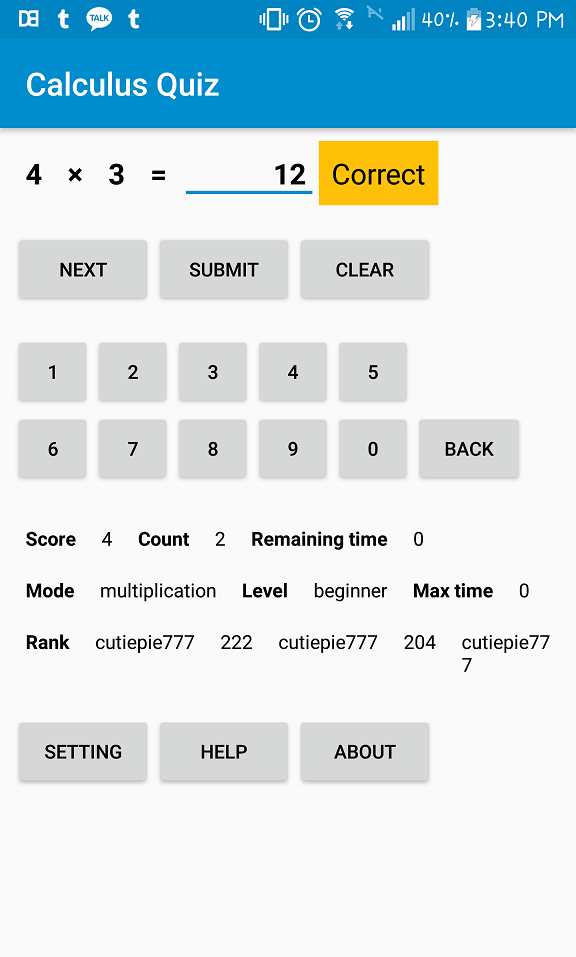
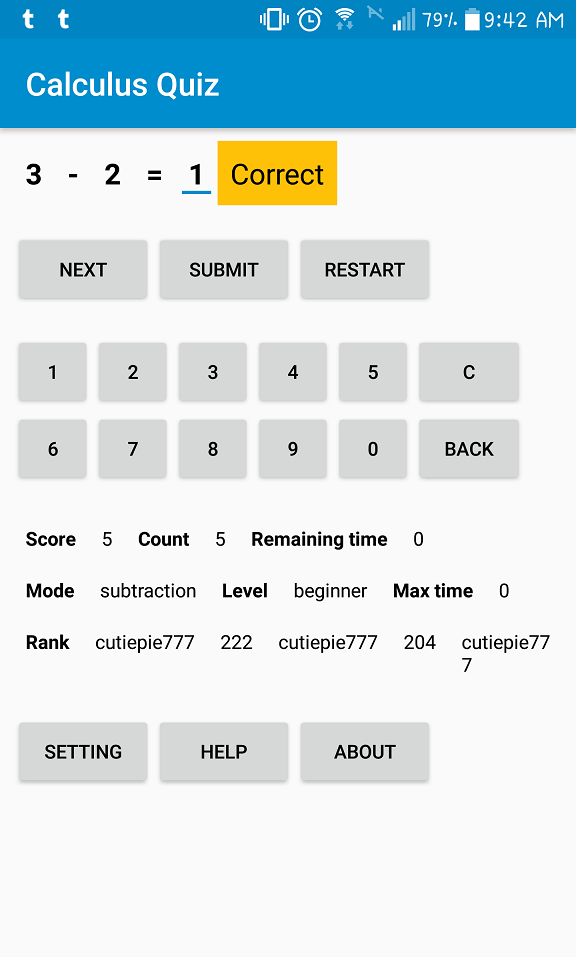
Added clear button

diff --git a/src/app/src/main/java/com/wy/calculus/MainActivity.java b/src/app/src/main/java/com/wy/calculus/MainActivity.java
@@ -41,6 +41,7 @@ public class MainActivity extends Activity {
 	private Button button3;
 	private Button button4;
 	private Button button5;
+	private Button cleanbutton;
 	private Button button6;
 	private Button button7;
 	private Button button8;
@@ -129,6 +130,7 @@ public class MainActivity extends Activity {
 		button3 = (Button) findViewById(R.id.button3);
 		button4 = (Button) findViewById(R.id.button4);
 		button5 = (Button) findViewById(R.id.button5);
+		cleanbutton = (Button) findViewById(R.id.cleanbutton);
 		button6 = (Button) findViewById(R.id.button6);
 		button7 = (Button) findViewById(R.id.button7);
 		button8 = (Button) findViewById(R.id.button8);
@@ -292,11 +294,17 @@ public class MainActivity extends Activity {
 			@Override
 			public void onClick(View _v) { 
 				if (answeredit.getText().toString().length() == 0) {
-					answeredit.setText("");
+					answeredit.setText("0");
 				}
 				else {
 					answeredit.setText(String.valueOf((long)(Double.parseDouble(answeredit.getText().toString()) / 10)));
 				}
+			}
+		});
+		cleanbutton.setOnClickListener(new View.OnClickListener() {
+			@Override
+			public void onClick(View _v) { 
+				answeredit.setText("0");
 			}
 		});
 
